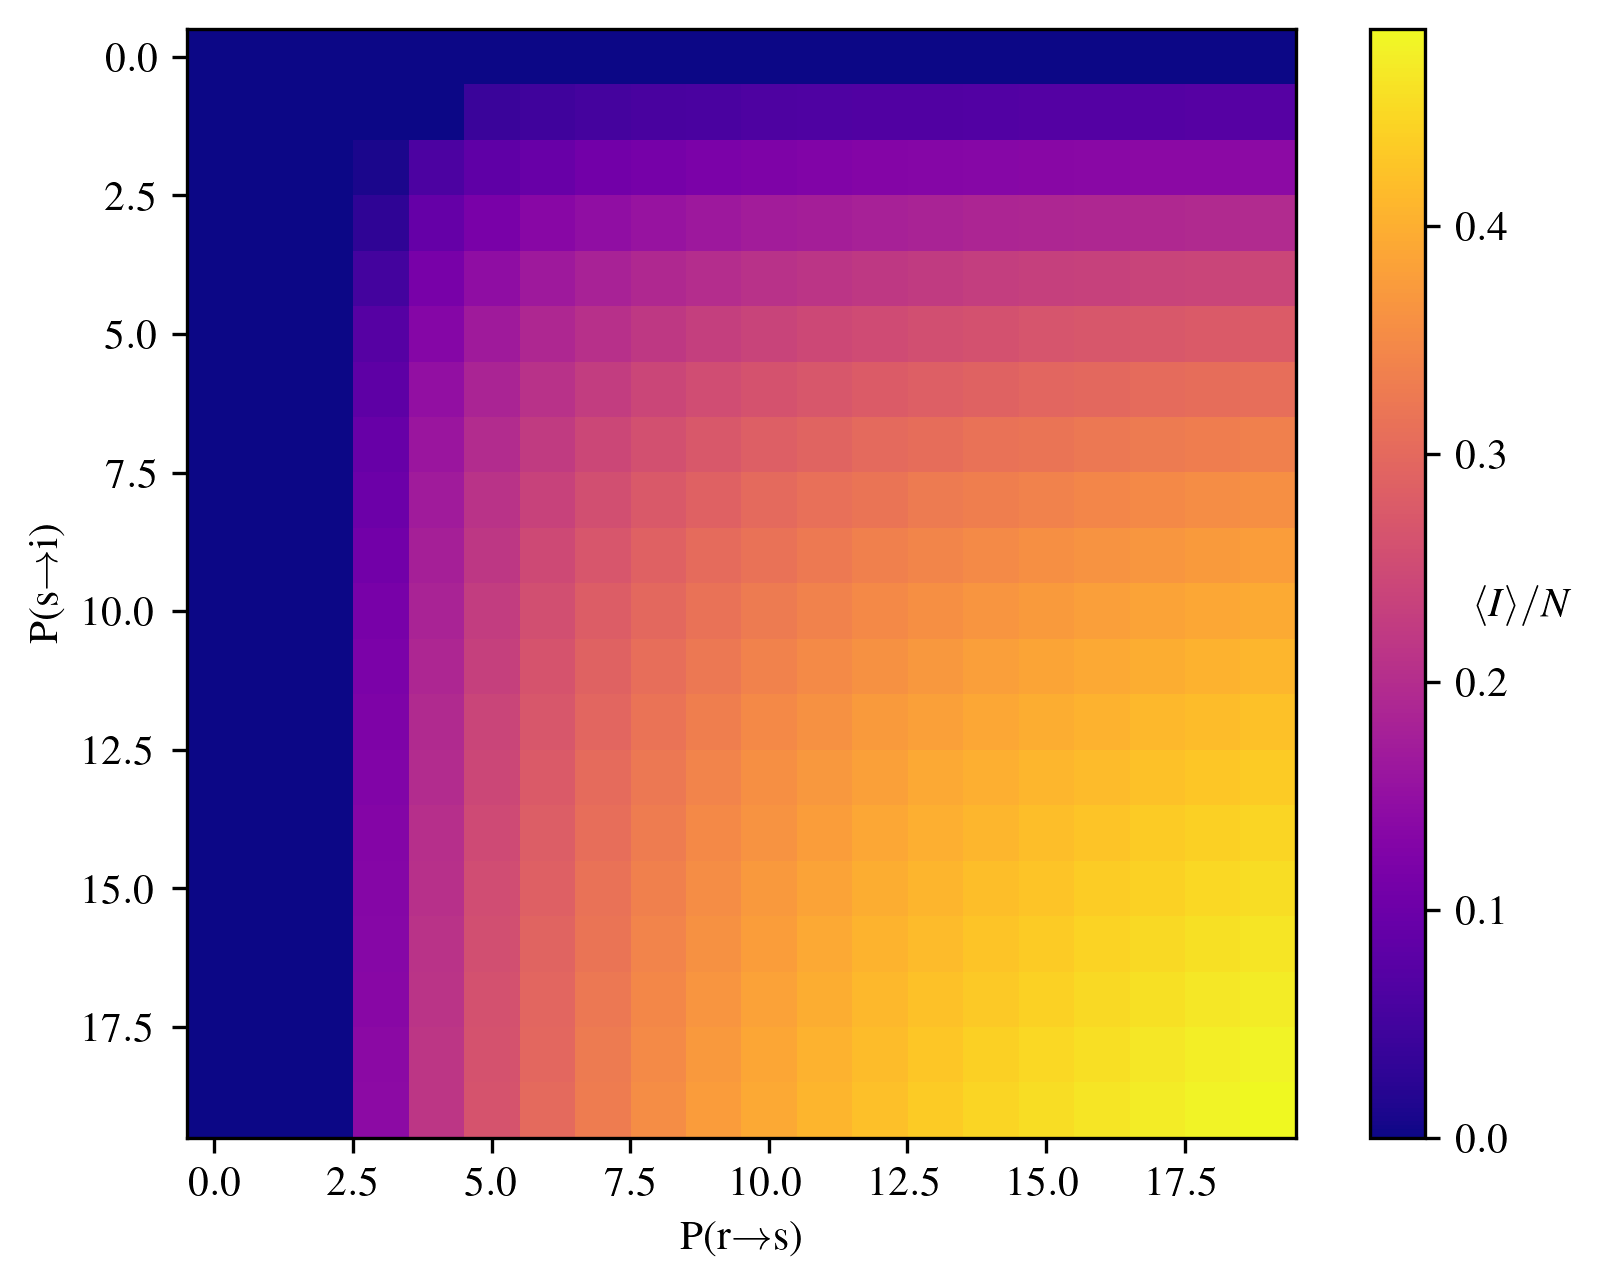
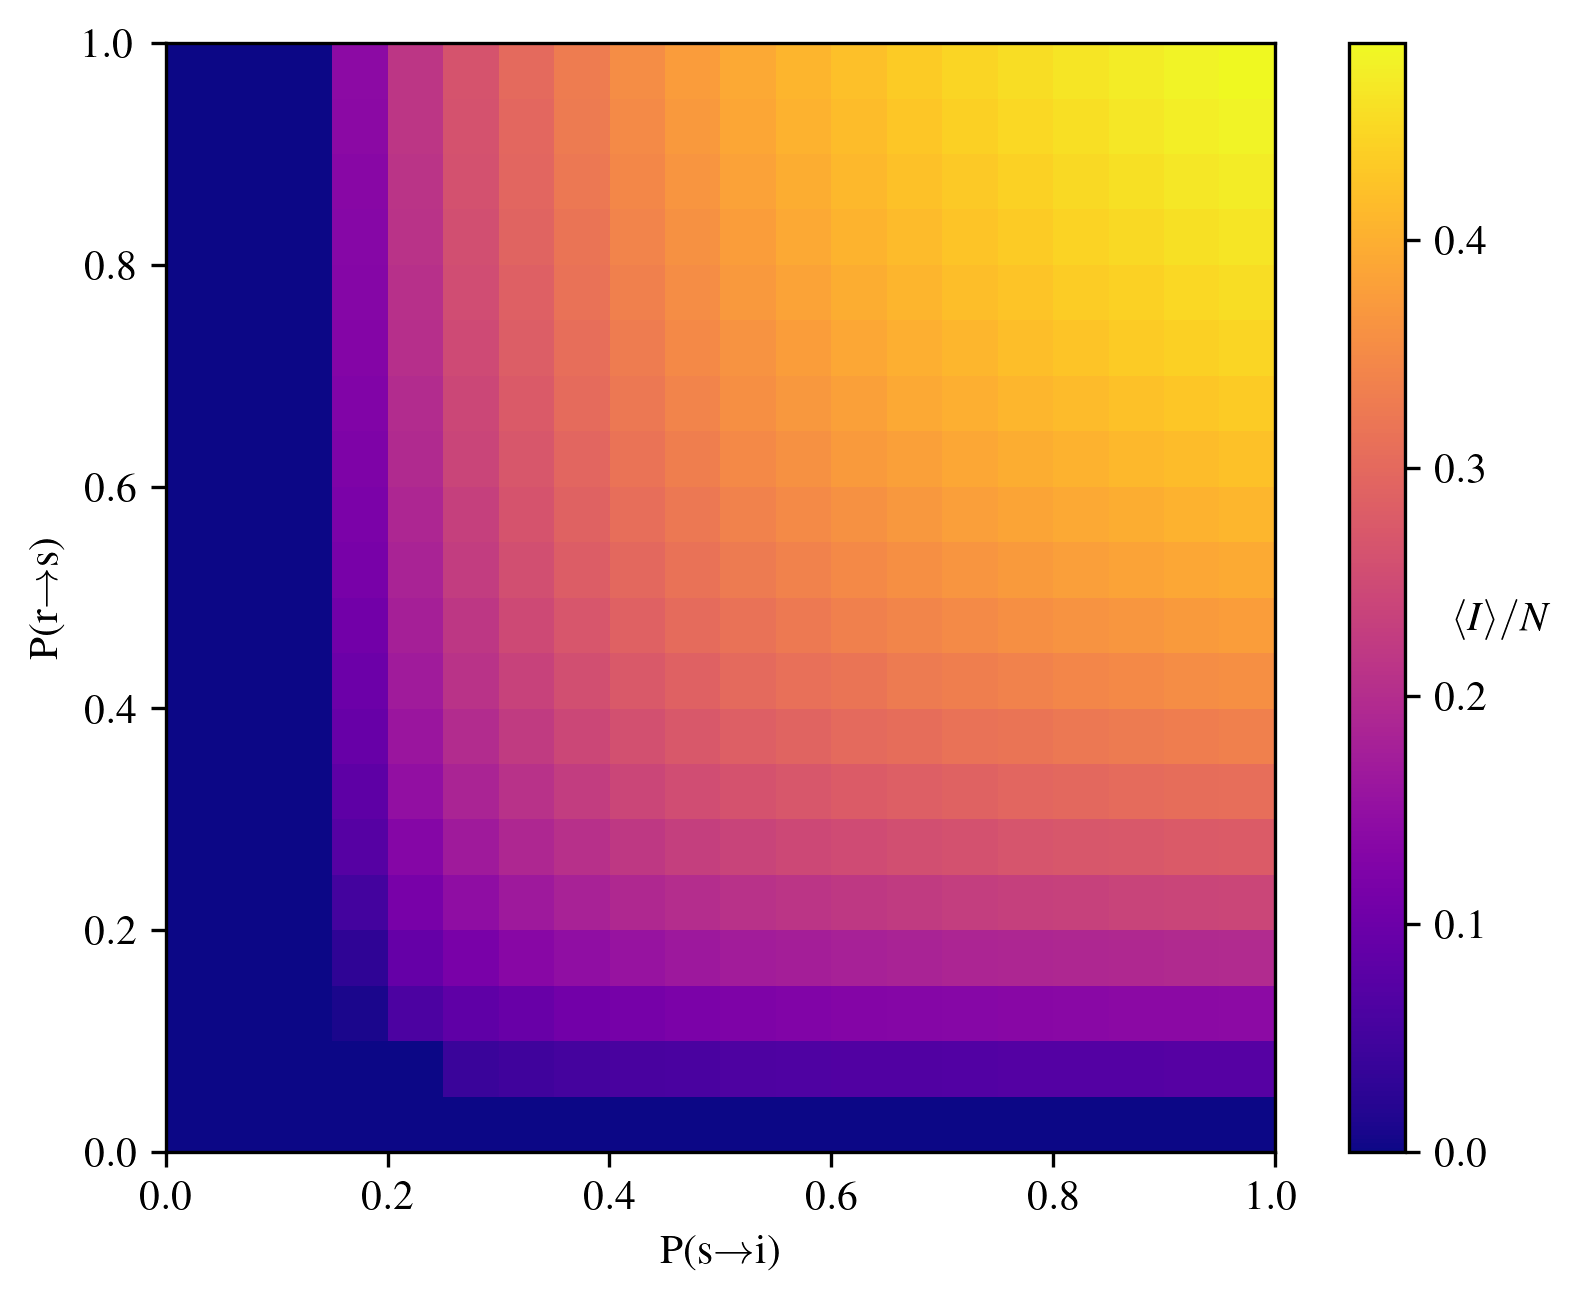
stable version with incorrect sirs implementation. Currently this updates the whole lattice at once instead of a stochastics "sweep" mechanism.

diff --git a/life.py b/life.py
@@ -5,6 +5,7 @@ import argparse
 import matplotlib.pyplot as plt
 import csv
 from matplotlib.colors import ListedColormap
+from scipy.optimize import curve_fit
 
 custom_cmap = ListedColormap(['mintcream', 'tomato', 'darkgreen'])
 
@@ -13,6 +14,9 @@ plt.rcParams.update({ # Use LaTeX for text rendering
     "font.family": "serif",
     "font.serif": ["Times"],
 })
+
+def line(x, a, b):
+    return a * x + b
 
 running = True # This is to handle exiting the code when the figure is closed
 def on_close(event):
@@ -195,6 +199,7 @@ def compute_com(lattice):
 
 def glider_speed():
     L = 50
+    t = np.arange(1000)
     lattice = init_state(L, 'glider')
 
     x_positions = []
@@ -205,11 +210,10 @@ def glider_speed():
 
     prev_x, prev_y = compute_com(lattice)
 
-    for t in range(200):
+    for _ in t:
         x, y = compute_com(lattice)
 
         dx = x - prev_x
-        print(dx)
         if dx > L/2:
             x_offset -= L
         elif dx < -L/2:
@@ -227,10 +231,34 @@ def glider_speed():
         prev_x, prev_y = x, y
         lattice = life_update(lattice)
 
-    plt.plot(x_positions, label='x')
-    plt.plot(y_positions, label='y')
-    plt.legend()
-    plt.show()
+    x_positions, y_positions, t = np.array(x_positions), np.array(y_positions), np.array(t, dtype=float)
+    indices = np.arange(len(x_positions))
+    mask = (indices - 90) % 200 <= 15
+    x_positions[mask] = np.nan
+    y_positions[mask] = np.nan
+    t[mask] = np.nan
+
+    mask = indices >= 100
+    x_positions[mask] += L * ((indices[mask] - 100) // 200 + 1)
+    y_positions[mask] += L * ((indices[mask] - 100) // 200 + 1)
+
+    x_positions = x_positions[~np.isnan(x_positions)]
+    y_positions = y_positions[~np.isnan(y_positions)]
+    t = t[~np.isnan(t)]
+
+    x_popt, _ = curve_fit(line, t, x_positions)
+    y_popt, _ = curve_fit(line, t, y_positions)
+
+    vx = x_popt[0]
+    vy = y_popt[0]
+    vtot = np.sqrt(vx**2 + vy**2)
+
+    # print(f'Vx = {vx:.5f}')
+    # print(f'Vy = {vy:.5f}')
+    print(f'Glider velocity: {vtot:.5f} cells/timestep')
+
+
+    # plt.plot(t, x_positions, label='x')
 
 
 def init_sirs(N=50, i=0.333, r=0.333):
@@ -307,7 +335,7 @@ def phase(N):
     variances = np.empty([prs_vals.shape[0], psi_vals.shape[0]], dtype=np.float64)
 
     for x, prs in enumerate(prs_vals):
-        print(prs)
+        print(f'{prs*100}%')
         for y, psi in enumerate(psi_vals):
             fracs = np.empty([n_meas], dtype=np.float64)
 
@@ -323,8 +351,8 @@ def phase(N):
             means[x, y] = np.mean(fracs)
             variances[x, y] = np.var(fracs)
 
-        np.savetxt("sirs means.csv", means, delimiter=",")
-        np.savetxt("sirs variances.csv", variances, delimiter=",")
+    np.savetxt("sirs means.csv", means, delimiter=",")
+    np.savetxt("sirs variances.csv", variances, delimiter=",")
 
 def graph_sirs():
     try:
@@ -333,17 +361,17 @@ def graph_sirs():
     except:
         print("Non-existent files, run phase() first")
 
-    plt.imshow(means, cmap='plasma')
-    plt.xlabel(r"P(r$\rightarrow$s)")
-    plt.ylabel(r"P(s$\rightarrow$i)")
+    plt.imshow(means, cmap='plasma', extent=(0, 1, 0, 1), origin='lower', aspect='equal')
+    plt.ylabel(r"P(r$\rightarrow$s)")
+    plt.xlabel(r"P(s$\rightarrow$i)")
     cbar = plt.colorbar()
     cbar.set_label(r"$\langle I \rangle / N$", rotation='horizontal')
     plt.savefig("sirs means.png", dpi=300, bbox_inches='tight')
     plt.close()
 
-    plt.imshow(variances, cmap='plasma')
-    plt.xlabel(r"P(r$\rightarrow$s)")
-    plt.ylabel(r"P(s$\rightarrow$i)")
+    plt.imshow(variances, cmap='plasma', extent=(0, 1, 0, 1), origin='lower', aspect='equal')
+    plt.ylabel(r"P(r$\rightarrow$s)")
+    plt.xlabel(r"P(s$\rightarrow$i)")
     cbar = plt.colorbar()
     cbar.set_label(r"$\sigma^2(\langle I \rangle / N)$", rotation='horizontal')
     plt.savefig("sirs variances.png", dpi=300, bbox_inches='tight')
@@ -355,7 +383,7 @@ def var_cut(N):
     n_meas = 10000
     pir = 0.5
     prs = 0.5
-    psi_vals = np.linspace(0.08, 0.25, 50)
+    psi_vals = np.linspace(0., 0.5, 50)
     var_list = np.empty_like(psi_vals)
     err_list = np.empty_like(psi_vals)
 
